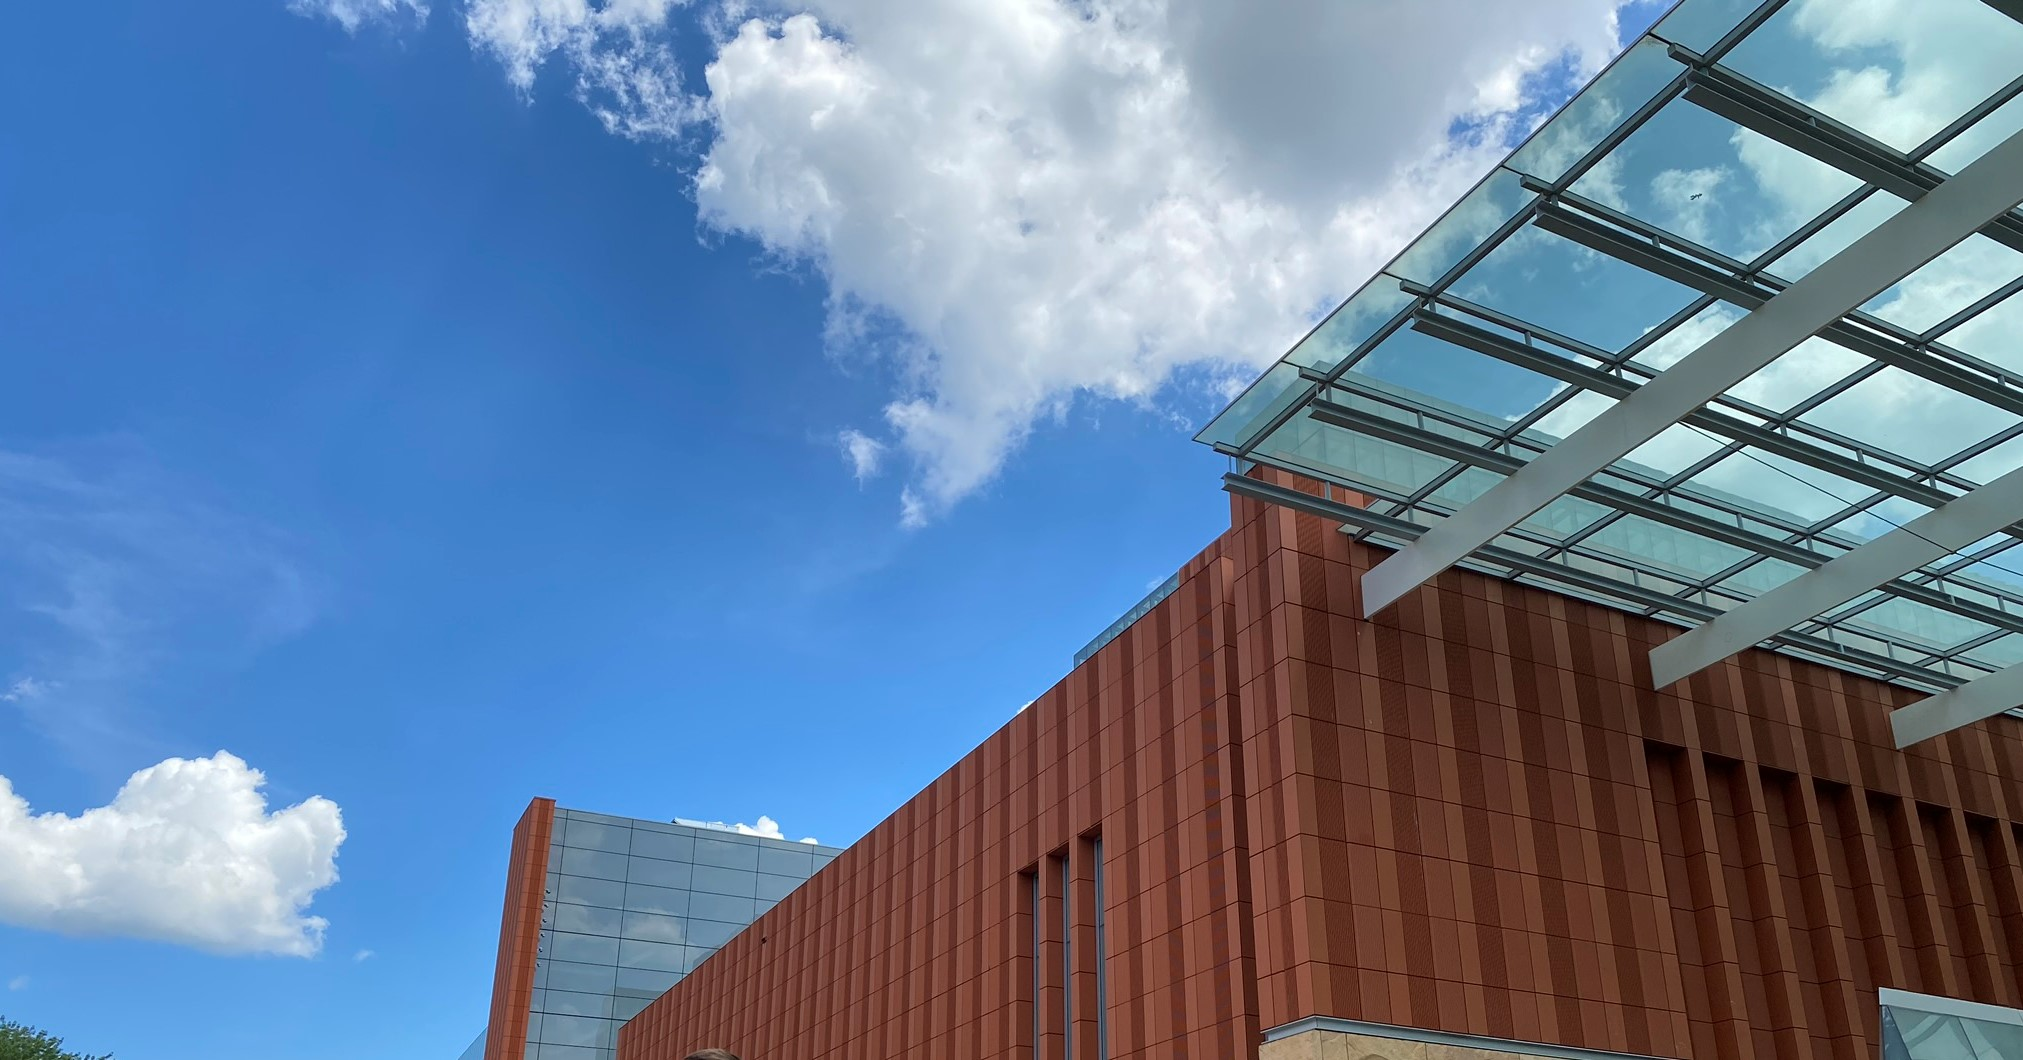
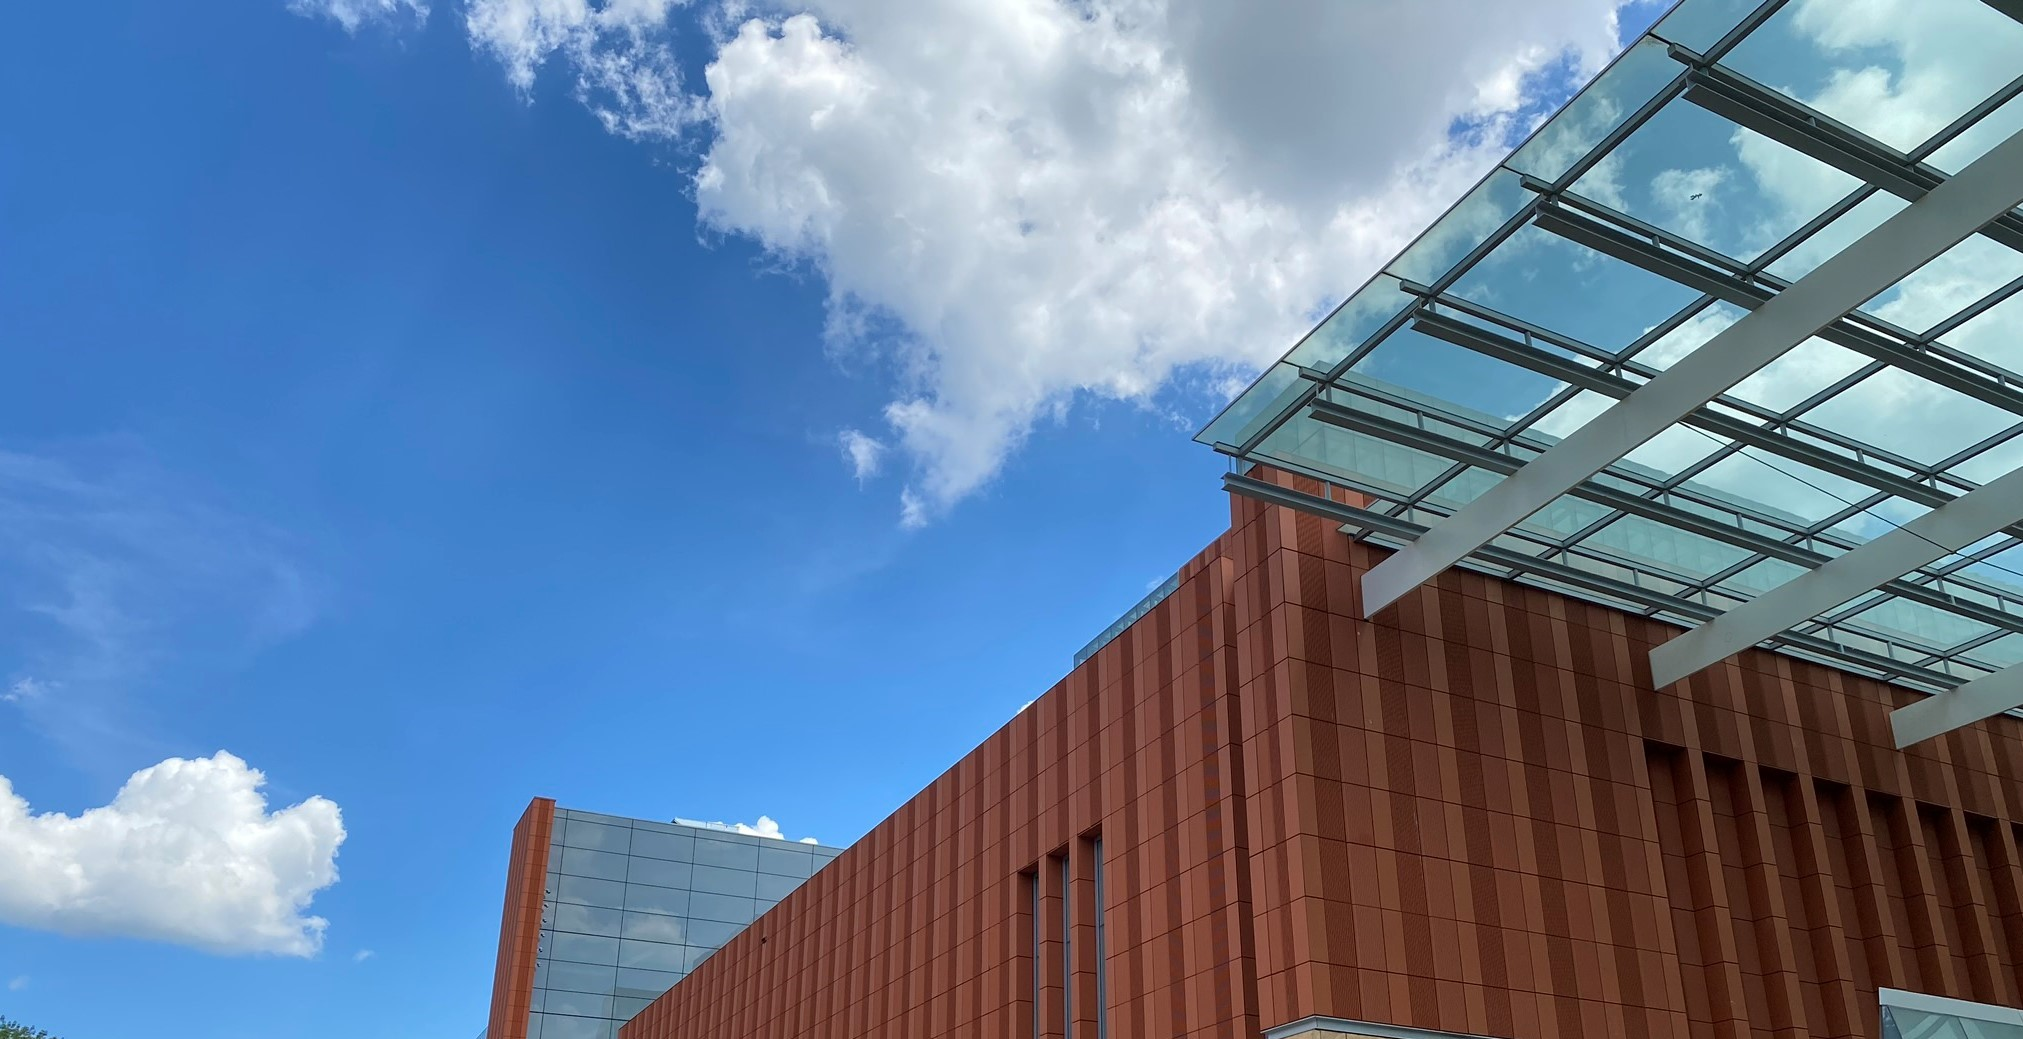
Fixing styling and cropping header image

diff --git a/index.html b/index.html
@@ -401,8 +401,8 @@
             </div>
             <div class="site-title" id="footer-title" style="color:white;">
                 <a href="#top" style="text-decoration:none;color:white;">
-                    <p style="font-size:16px;margin:0;padding-bottom:0;">The professional site of</p>
-                    <h1 style="font-size:40px;margin:0;padding:0;">Justin Time Hutchins</h1>
+                    <p>The professional site of</p>
+                    <h1>Justin Time Hutchins</h1>
                 </a>
             </div>
             <a href="Justin_Hutchins_Resume.pdf" id="download-link" download target="_blank">Download Resume</a>

diff --git a/queries.css b/queries.css
@@ -16,7 +16,7 @@
         font-size: 5em;
     }
 
-    .quote {
+    .site-title {
         font-size: 50%;
     }
 
@@ -30,17 +30,25 @@
 
     #footer-title {
         top:35%;
+        font-size:40%;
+        padding-left: 0;
+        padding-top: 30px;
+        padding-right: 0;
     }
 
     .links {
         left:50%;
         margin: 0;
         transform: translate(-50%);
-        bottom: 30px;
+        bottom: 50px;
     }
 
     .footer-menu {
         display: none;
+    }
+
+    #download-link {
+        bottom:40px;
     }
 }
 
